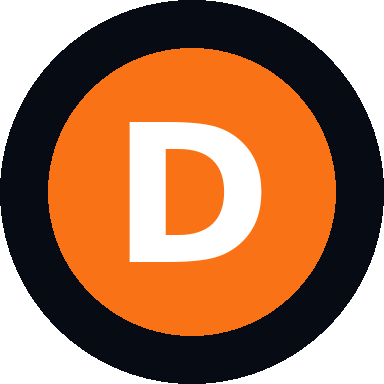
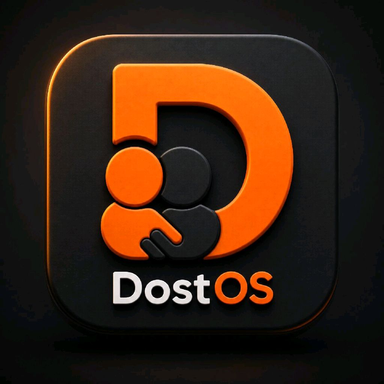
Yeni ana ekran ikonu guncellemesi

diff --git a/index.html b/index.html
@@ -11,6 +11,7 @@
   <meta name="apple-mobile-web-app-capable" content="yes" />
   <meta name="apple-mobile-web-app-status-bar-style" content="black-translucent" />
   <meta name="apple-mobile-web-app-title" content="DostOS" />
+  <link rel="icon" href="favicon.ico" sizes="32x32" />
   <link rel="apple-touch-icon" href="icons/icon-192.png" />
   <link rel="apple-touch-icon" sizes="152x152" href="icons/icon-152.png" />
   <link rel="apple-touch-icon" sizes="144x144" href="icons/icon-144.png" />
